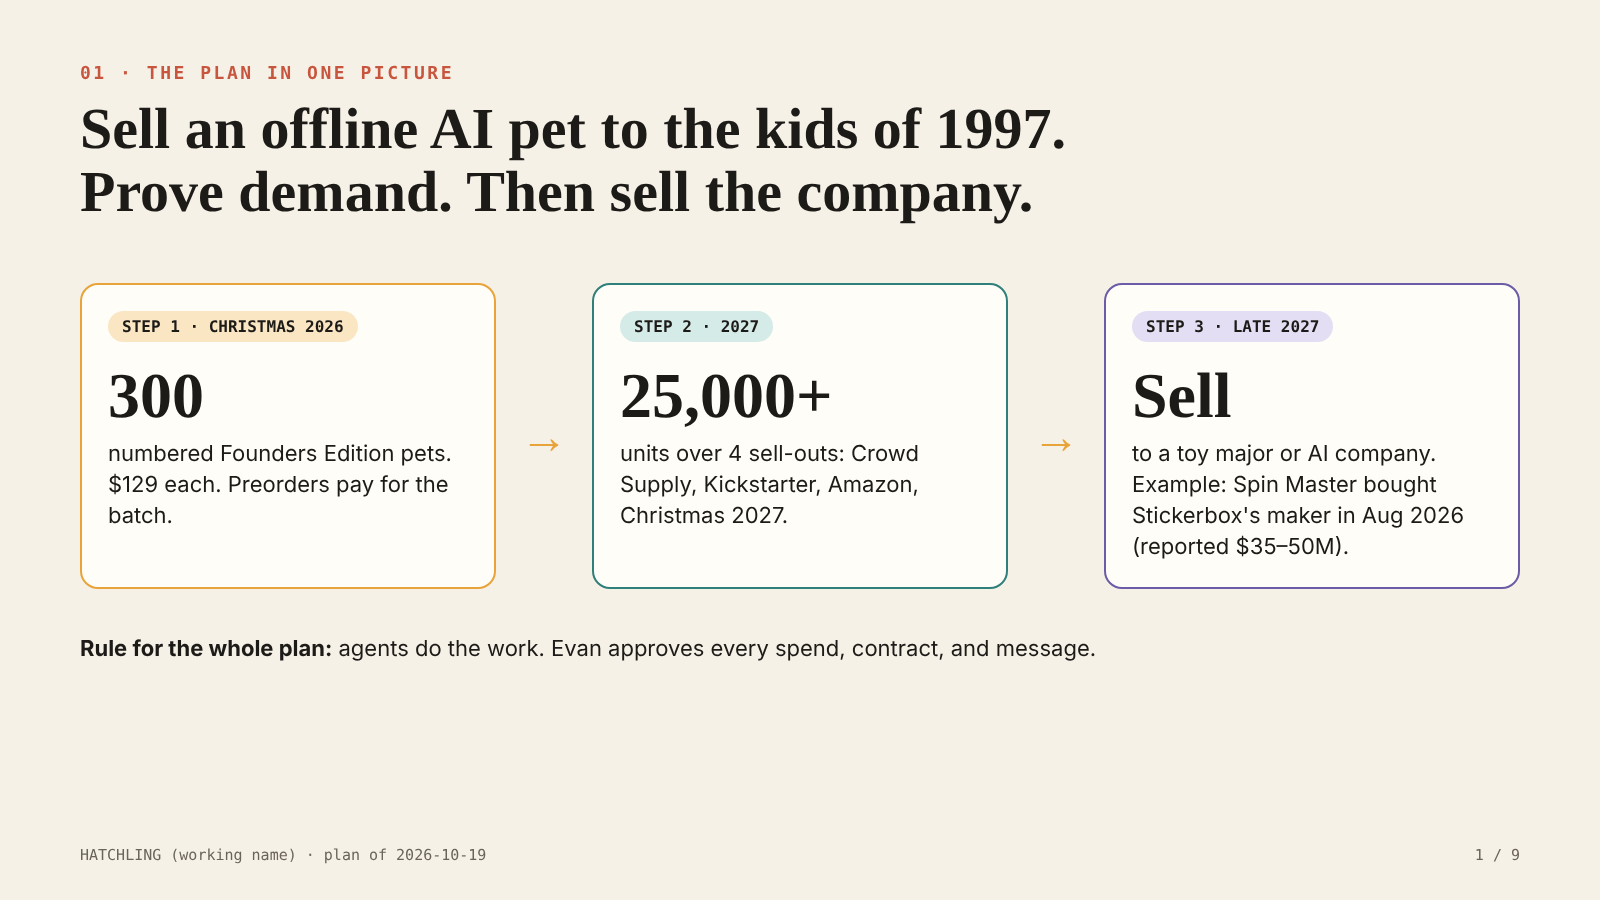
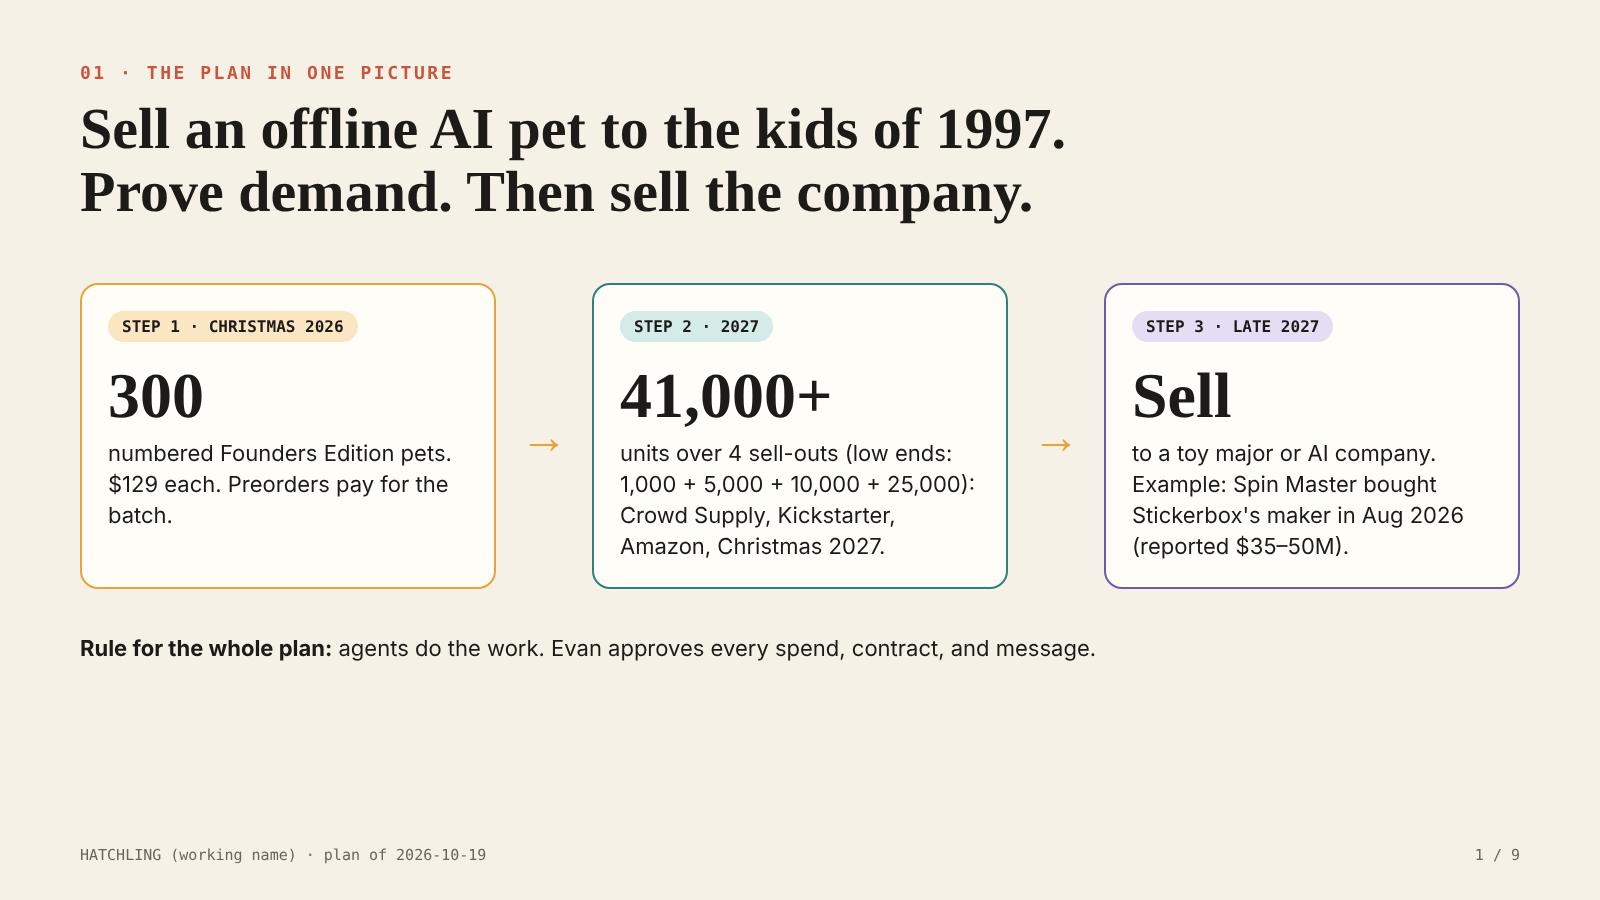
Tenth Codex review: paginate memory lookup; pause on a pending run; summaries match the correction
- Setup script: exact_id follows next_page (limit 100) until the path is
  found or the pages end.
- Weekly deployment: pause the deployment while a run is pending, then
  unpause (commands from the scheduled-deployments docs).
- STATUS.md and the seed run log: 5 GO, 11 WATCH after the Canasta cap.
- First report: drop the unsourced run-2 sentence.
- Christmas plan and slide 09: FCC test outside the $2,000 cap.
- Slide 01: 2027 total is 41,000+ (sum of the four low ends).

Claude-Session: https://claude.ai/code/session_01WCwHec3RfYx2cWkF2WjMXJ

Changed region(s): [[0.375, 0.4978, 0.625, 0.6222], [0.375, 0.4044, 0.4375, 0.4667]]

diff --git a/docs/plans/companion-egg-images/slides.html b/docs/plans/companion-egg-images/slides.html
@@ -34,8 +34,8 @@ td{padding:10px 8px;border-bottom:1px solid var(--line);font-size:20px;vertical-
     <div class="arrow">→</div>
     <div class="card" style="flex:1;border-color:var(--teal)">
       <div class="pill" style="background:#d4ebe8">STEP 2 · 2027</div>
-      <div class="big" style="margin:22px 0 10px">25,000+</div>
-      <p>units over 4 sell-outs: Crowd Supply, Kickstarter, Amazon, Christmas 2027.</p>
+      <div class="big" style="margin:22px 0 10px">41,000+</div>
+      <p>units over 4 sell-outs (low ends: 1,000 + 5,000 + 10,000 + 25,000): Crowd Supply, Kickstarter, Amazon, Christmas 2027.</p>
     </div>
     <div class="arrow">→</div>
     <div class="card" style="flex:1;border-color:var(--lav)">
@@ -217,7 +217,7 @@ td{padding:10px 8px;border-bottom:1px solid var(--line);font-size:20px;vertical-
     <tr class="mono mute" style="font-size:16px"><td style="width:50px">#</td><td>Decision</td><td style="width:420px">Recommendation</td><td style="width:150px">By</td></tr>
     <tr><td>1</td><td><b>Sell to adults only in 2026?</b></td><td style="color:var(--teal)"><b>Yes.</b> Avoids child-AI rules for now</td><td class="mono" style="color:var(--rose)">Today</td></tr>
     <tr><td>2</td><td><b>Founders price</b></td><td style="color:var(--teal)"><b>$129</b> (not $149)</td><td class="mono" style="color:var(--rose)">Today</td></tr>
-    <tr><td>3</td><td><b>Spend cap for 2 weeks</b></td><td style="color:var(--teal)"><b>$2,000 (contractor apart)</b></td><td class="mono" style="color:var(--rose)">Today</td></tr>
+    <tr><td>3</td><td><b>Spend cap for 2 weeks</b></td><td style="color:var(--teal)"><b>$2,000 (contractor and FCC test apart)</b></td><td class="mono" style="color:var(--rose)">Today</td></tr>
     <tr><td>4</td><td><b>Agent stack</b></td><td style="color:var(--teal)"><b>Claude Managed Agents only</b> (add Grok later if needed)</td><td class="mono" style="color:var(--rose)">Today</td></tr>
     <tr><td>5</td><td><b>Authorize the Stripe connector</b></td><td style="color:var(--teal)"><b>Yes</b>, in claude.ai settings</td><td class="mono" style="color:var(--rose)">Today</td></tr>
     <tr><td>6</td><td><b>Name</b></td><td>Pick from the trademark-checked list</td><td class="mono">Oct 20</td></tr>

diff --git a/docs/zeitgeist/reports/2026-10-19.html b/docs/zeitgeist/reports/2026-10-19.html
@@ -162,7 +162,7 @@ footer{border-top:1px solid var(--rule);padding-top:20px;font-size:.85rem;color:
 
 <section aria-labelledby="capped">
   <h2 id="capped">Capped at WATCH: Canasta</h2>
-  <p class="small">Correction, 20 October 2026: Canasta scores 76, but all three of its facts below are event demand (clubs, teachers, a parlor), and the series title is an owned asset, not a demand signal. The two-signal rule caps it at WATCH, so it is not a GO recommendation. It is kept because it set the first test. Run 2 found book-sales and search signals for canasta.</p>
+  <p class="small">Correction, 20 October 2026: Canasta scores 76, but all three of its facts below are event demand (clubs, teachers, a parlor), and the series title is an owned asset, not a demand signal. The two-signal rule caps it at WATCH, so it is not a GO recommendation. It is kept because it set the first test.</p>
   <div class="bets">
 
   <article class="bet">

diff --git a/STATUS.md b/STATUS.md
@@ -9,9 +9,10 @@
   deployments/zeitgeist-weekly.md, agent-seed/zeitgeist/). Weekly, Monday 09:07
   New York. Writes reports to the zeitgeist-state memory store. No spend, no
   outreach. Not applied; `ant apply --dry-run` not run (no ant CLI in session).
-- First report (manual run): docs/zeitgeist/reports/2026-10-19.html. 16 trends, 6 GO.
-  Top 3: canasta, game-night hosting, needlepoint. NEEDS EVAN: pick tests,
-  then run scripts/zeitgeist-setup.sh for weekly runs.
+- First report (manual run): docs/zeitgeist/reports/2026-10-19.html. 16 trends,
+  5 GO, 11 WATCH (corrected 2026-10-20: Canasta capped at WATCH, one signal
+  type). GO cards: craft nights and game-night hosting, needlepoint.
+  NEEDS EVAN: pick tests, then run scripts/zeitgeist-setup.sh for weekly runs.
 
 Updated 2026-10-08 (agent search + design overhaul, branch claude/agent-search-overhaul)
 

diff --git a/docs/plans/companion-egg-christmas-2026.md b/docs/plans/companion-egg-christmas-2026.md
@@ -256,7 +256,7 @@ Each step has an owner. "Claude" means a Claude session can do the step. "Evan" 
 1. Adults only for 2026: yes or no.
 2. Founders price: $129 (recommended) or $149.
 3. Name, after the trademark search.
-4. Spend cap for Week 0 and Week 1: $2,000 recommended, not counting the embedded contractor, which Evan approves on its quote.
+4. Spend cap for Week 0 and Week 1: $2,000 recommended, not counting the embedded contractor or the FCC/EMC test, which Evan approves each on its own quote.
 5. Batch size: decided on 2026-11-15 by preorder count.
 6. Microphones: ask Waveshare to leave every microphone off the board for 310 units (the 1.85C V2 has two; recommended, keeps "no microphone" true), or keep all of them off in firmware, verified on each sample, and say "microphones switched off" in all copy.
 

diff --git a/deployments/zeitgeist-weekly.md b/deployments/zeitgeist-weekly.md
@@ -30,3 +30,10 @@ waits indefinitely. After each Monday run, open the session: if it shows a
 pending tool confirmation, read the proposed write and approve or deny it. If
 the run log has no line for that Monday by noon New York time, check for a
 paused session first.
+
+A paused session does not stop next Monday's run, and two runs writing the
+same ledger can clobber each other. If a run is still pending when you find
+it, pause the deployment first:
+`ant beta:deployments pause --deployment-id <id>`. Resolve the pending run,
+then `ant beta:deployments unpause --deployment-id <id>`. Unpausing resumes
+at the next scheduled Monday; a missed Monday is not run again.

diff --git a/agent-seed/zeitgeist/state/run-log.md b/agent-seed/zeitgeist/state/run-log.md
@@ -1,2 +1,2 @@
 # Run log
-2026-10-19 report docs/zeitgeist/reports/2026-10-19.html (manual run) trends 16 go 6 watch 10 unread 12
+2026-10-19 report docs/zeitgeist/reports/2026-10-19.html (manual run) trends 16 go 5 watch 11 unread 12 (corrected 2026-10-20: Canasta capped at WATCH)
